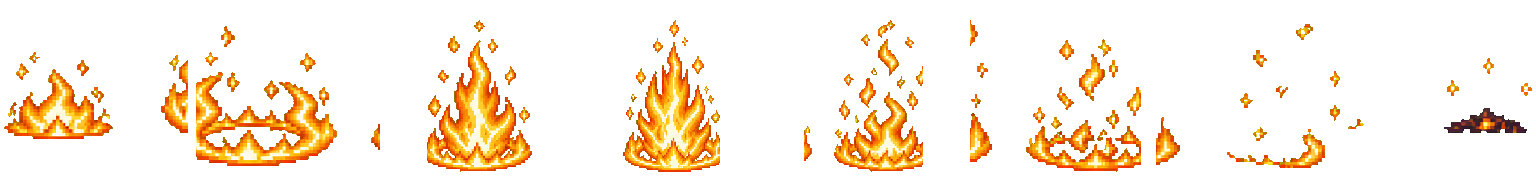
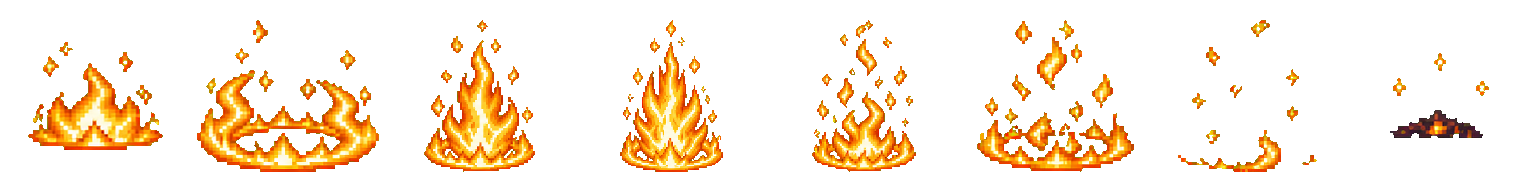
fix(kira): postprocess vfx strips

diff --git a/scripts/assets/rebuild_kira_game_assets_with_pillow.py b/scripts/assets/rebuild_kira_game_assets_with_pillow.py
@@ -68,7 +68,11 @@ PROJECTILE_STRIPS: dict[str, StripSpec] = {
 }
 
 VFX_STRIPS: dict[str, StripSpec] = {
-    "fire_burst": StripSpec("vfx", "kira_fire_burst_8f_target_1536x192_raw_imagegen.png", VFX_DIR / "fire_burst.png", 8, (192, 192), (184, 152), "segments", None, VFX_INCLUDE_COMPONENT_MIN),
+    "hit_spark": StripSpec("vfx", "kira_hit_spark_4f_target_256x64_raw_imagegen.png", VFX_DIR / "hit_spark.png", 4, (64, 64), (58, 58), "components", None, VFX_INCLUDE_COMPONENT_MIN),
+    "dust_puff": StripSpec("vfx", "kira_dust_puff_4f_target_256x64_raw_imagegen.png", VFX_DIR / "dust_puff.png", 4, (64, 64), (60, 52), "components", None, VFX_INCLUDE_COMPONENT_MIN),
+    "slash_arc": StripSpec("vfx", "kira_slash_arc_4f_target_512x128_raw_imagegen.png", VFX_DIR / "slash_arc.png", 4, (128, 128), (122, 96), "components", None, VFX_INCLUDE_COMPONENT_MIN),
+    "small_explosion": StripSpec("vfx", "kira_small_explosion_6f_target_768x128_raw_imagegen.png", VFX_DIR / "small_explosion.png", 6, (128, 128), (122, 112), "components", None, VFX_INCLUDE_COMPONENT_MIN),
+    "fire_burst": StripSpec("vfx", "kira_fire_burst_8f_target_1536x192_raw_imagegen.png", VFX_DIR / "fire_burst.png", 8, (192, 192), (184, 152), "components", None, VFX_INCLUDE_COMPONENT_MIN),
 }
 
 
@@ -406,8 +410,35 @@ def write_projectile_sprite_frames() -> None:
     )
 
 
+def write_kira_vfx_sprite_frames() -> None:
+    lines = ['[gd_resource type="SpriteFrames" format=3]', ""]
+    ext_ids = {name: f"{name}_sheet" for name in VFX_STRIPS}
+    for name, ext_id in ext_ids.items():
+        lines.append(f'[ext_resource type="Texture2D" path="res://assets/vfx/kira/{name}.png" id="{ext_id}"]')
+    lines.append("")
+
+    atlas_ids: dict[str, list[str]] = {}
+    for name, spec in VFX_STRIPS.items():
+        ids, chunks = atlas_resources(ext_ids[name], f"vfx_{name}", spec.frame_count, spec.cell_size)
+        atlas_ids[name] = ids
+        lines.extend(chunks)
+
+    animations = [
+        animation_block("hit_spark", atlas_ids["hit_spark"], 18.0, False),
+        animation_block("dust_puff", atlas_ids["dust_puff"], 12.0, False),
+        animation_block("slash_arc", atlas_ids["slash_arc"], 20.0, False),
+        animation_block("small_explosion", atlas_ids["small_explosion"], 18.0, False),
+        animation_block("fire_burst", atlas_ids["fire_burst"], 20.0, False),
+    ]
+    lines.append("[resource]")
+    lines.append("animations = [" + ", ".join(animations) + "]")
+    (ROOT / "resources/sprite_frames/kira_vfx_sprite_frames.tres").write_text("\n".join(lines) + "\n")
+
+
 def write_qa_preview() -> None:
     rows = [Image.open(spec.output).convert("RGBA") for spec in CHARACTER_STRIPS.values()]
+    rows.extend(Image.open(spec.output).convert("RGBA") for spec in PROJECTILE_STRIPS.values())
+    rows.extend(Image.open(spec.output).convert("RGBA") for spec in VFX_STRIPS.values())
     width = max(row.width for row in rows)
     height = sum(row.height for row in rows) + 8 * (len(rows) + 1)
     preview = Image.new("RGBA", (width, height), (0, 0, 0, 255))
@@ -469,6 +500,7 @@ def main() -> None:
 
     write_kira_sprite_frames()
     write_projectile_sprite_frames()
+    write_kira_vfx_sprite_frames()
     write_qa_preview()
 
     for name, spec in CHARACTER_STRIPS.items():
